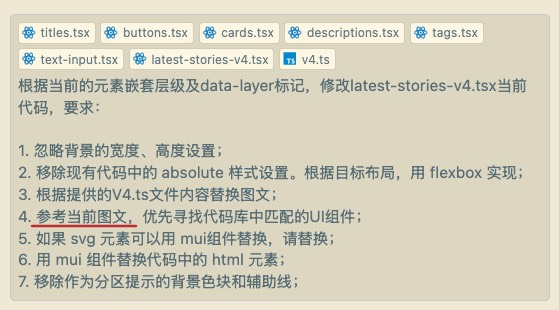
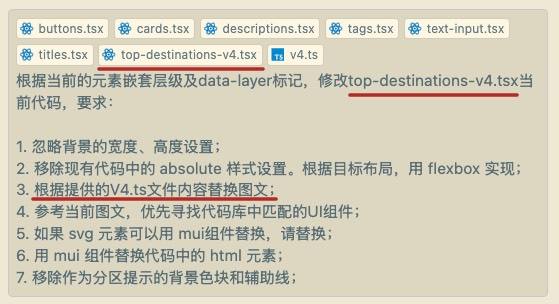
generate v4 top destinations

Changed region(s): [[0.0304, 0.4441, 0.9732, 0.977], [0.0304, 0.0296, 0.9732, 0.3849]]

diff --git a/app/components/v4/top-destinations-v4.tsx b/app/components/v4/top-destinations-v4.tsx
@@ -1,0 +1,55 @@
+import { Container, Stack, Box } from "@mui/material";
+import React from "react";
+import { v4 } from "@/app/constants/v4";
+import { HeaderTitle } from "@/app/common/ui/titles";
+import { SearchInput } from "@/app/common/ui/text-input";
+import { ChipTag } from "@/app/common/ui/tags";
+import { VerticalCard } from "@/app/common/ui/cards";
+
+export default function TopDestinationsV4() {
+  return (
+    <Container maxWidth="lg">
+      <Box p={6}>
+        <Stack spacing={4}>
+          {/* Header */}
+          <HeaderTitle>{v4.topDestinations.headerTitle}</HeaderTitle>
+
+          {/* Operations Bar */}
+          <Stack
+            direction="row"
+            justifyContent="space-between"
+            alignItems="center"
+          >
+            {/* Chips */}
+            <Stack direction="row" spacing={2}>
+              {v4.topDestinations.operationBar.chipLabels.map(
+                (label, index) => (
+                  <ChipTag key={index} label={label} />
+                )
+              )}
+            </Stack>
+
+            {/* Search */}
+            <SearchInput
+              placeholder={
+                v4.topDestinations.operationBar.searchInputPlaceholder
+              }
+            />
+          </Stack>
+
+          {/* Cards */}
+          <Stack direction="row" spacing={4} justifyContent="center">
+            {v4.topDestinations.verticalCards.map((card, index) => (
+              <VerticalCard
+                key={index}
+                imgSrc={card.imageSrc}
+                title={card.title}
+                detailInfo={card.detailInfo}
+              />
+            ))}
+          </Stack>
+        </Stack>
+      </Box>
+    </Container>
+  );
+}

diff --git a/app/components/v3/top-destinations-v3.tsx b/app/components/v3/top-destinations-v3.tsx
@@ -10,26 +10,22 @@ export default function TopDestinationsV3() {
     {
       imgSrc: "/goooose9.jpg",
       title: "Vietnam",
-      date: "Golden Bridge, Da Nang",
-      category: "Asia",
+      detailInfo: "Golden Bridge, Da Nang",
     },
     {
       imgSrc: "/goooose9.jpg",
       title: "Vietnam",
-      date: "Golden Bridge, Da Nang",
-      category: "Asia",
+      detailInfo: "Golden Bridge, Da Nang",
     },
     {
       imgSrc: "/goooose9.jpg",
       title: "Vietnam",
-      date: "Golden Bridge, Da Nang",
-      category: "Asia",
+      detailInfo: "Golden Bridge, Da Nang",
     },
     {
       imgSrc: "/goooose9.jpg",
       title: "Vietnam",
-      date: "Golden Bridge, Da Nang",
-      category: "Asia",
+      detailInfo: "Golden Bridge, Da Nang",
     },
   ];
 
@@ -80,8 +76,7 @@ export default function TopDestinationsV3() {
                 key={index}
                 imgSrc={destination.imgSrc}
                 title={destination.title}
-                date={destination.date}
-                category={destination.category}
+                detailInfo={destination.detailInfo}
               />
             ))}
           </Box>

diff --git a/app/constants/v4.ts b/app/constants/v4.ts
@@ -59,4 +59,40 @@ export const v4 = {
       }
     ]
   },
+  topDestinations: {
+    headerTitle: "Top Destinations",
+    operationBar:{
+      chipLabels:[
+        "All",
+        "Asia",
+        "Europe",
+        "North America",
+        "South America",
+        "Australia",
+      ],
+      searchInputPlaceholder: "Search destination...",
+    },
+    verticalCards:[
+      {
+        imageSrc: "/goooose14.jpg",
+        title: "Golden Bridge, Da Nang",
+        detailInfo: "Vietnam",
+      },
+      {
+        imageSrc: "/goooose14.jpg",
+        title: "fake title",
+        detailInfo: "fake date",
+      },
+      {
+        imageSrc: "/goooose14.jpg",
+        title: "another fake title",
+        detailInfo: "another fake date",
+      },
+      {
+        imageSrc: "/goooose14.jpg",
+        title: "another fake title again",
+        detailInfo: "another fake date again",
+      },
+    ]
+  },
 };

diff --git a/app/pages/figma-with-code-and-text-generation.tsx b/app/pages/figma-with-code-and-text-generation.tsx
@@ -2,10 +2,12 @@ import React from "react";
 import HighlightsV4 from "@/app/components/v4/highlights-v4";
 import EmailConnectV4 from "@/app/components/v4/email-connect-v4";
 import LatestStoriesV4 from "../components/v4/latest-stories-v4";
+import TopDestinationsV4 from "../components/v4/top-destinations-v4";
 
 export function FigmaWithCodeAndTextGeneration() {
   return (
     <>
+      <TopDestinationsV4 />
       <LatestStoriesV4 />
       <HighlightsV4 />
       <EmailConnectV4 />

diff --git a/app/common/ui/cards.tsx b/app/common/ui/cards.tsx
@@ -40,9 +40,8 @@ const InfoCard = (props: {
 
 const VerticalCard = (props: {
   imgSrc: string;
-  category: string;
   title: string;
-  date: string;
+  detailInfo: string;
 }) => {
   return (
     <Card
@@ -64,7 +63,7 @@ const VerticalCard = (props: {
       />
       <Box sx={{ p: 1.5 }}>
         <ItemTitle>{props.title}</ItemTitle>
-        <ItemDescription description={props.date} />
+        <ItemDescription description={props.detailInfo} />
       </Box>
     </Card>
   );
